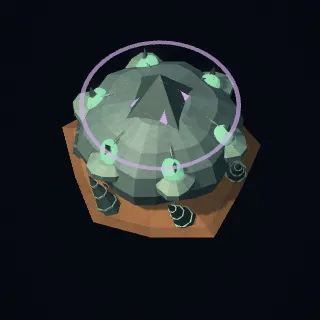
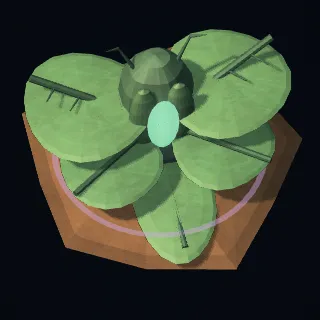
feat: distinguish Choir airbase and defense turret

diff --git a/src/renderer/models/faction-1-building-turret.ts b/src/renderer/models/faction-1-building-turret.ts
@@ -1,48 +1,66 @@
-/* Fraktion 1 / building / turret. Thorn spire: nested growth collars and four narrow thorn-support leaves. */
+/* Verdant Choir / Thorn spire — a rooted seed cannon with a long hollow thorn barrel. */
 'use strict';
 (() => {
-  function hull() {
-    const out: number[]=[], s=1.7, h=5.8, cone=geom.cylinder(7,0), collar=geom.cylinder(8), octa=geom.octa(),
-      dark=[.48,.58,.58], edge=[1.2,1.22,1.12];
-    const part=(mesh: number[],x: number,y: number,z: number,sx: number,sy: number,sz: number,tint: number[],ry=0,rx=0,rz=0)=>ModelMesh.bake(out,mesh,{x,y,z,sx,sy,sz,tint,ry,rx,rz});
-    const shell=(x: number,y: number,z: number,sx: number,sy: number,sz: number,tint: number[])=>ModelMesh.lobedShell(out,{x,y,z,sx,sy,sz,lobes:3,segments:12,rings:6,tint});
-    ModelMesh.lobedShell(out,{x:0,y:h*.44,z:0,sx:s*.8,sy:h*.57,sz:s*.78});
-    // Six old root positions and lean angles, now with growth rings baked once.
-    const root: number[]=[];
-    ModelMesh.bake(root,cone,{sx:.5,sy:2,sz:.5,tint:dark});
-    for(const y of [-.6,-.05,.45]) ModelMesh.bake(root,collar,{y,sx:(1-y)*.25+.035,sy:.075,sz:(1-y)*.25+.035,tint:edge});
-    for(let i=0;i<6;i++) {
-      const a=i*Math.PI/3;
-      ModelMesh.bake(out,root,{x:Math.sin(a)*s*.8,y:.7,z:Math.cos(a)*s*.8,ry:a,rx:.25,rz:.42});
-    }
-    // Six segmented meridian ribs sit just above the shell, like overlapping chitin seams.
-    for(let i=0;i<6;i++) for(let j=0;j<6;j++) {
-      const a=(i+.5)*Math.PI/3;
-      const point= (b: number) =>{const r=Math.sin(b)*(1-.055*Math.sin(b))+.04;
-        return [Math.cos(a)*s*.8*r,h*.44+Math.cos(b)*h*.57,Math.sin(a)*s*.78*r];};
-      const [x,y,z]=point(.62+j/6*1.82),[u,v,w]=point(.62+(j+1)/6*1.82),dx=u-x,dy=v-y,dz=w-z;
-      part(octa,(x+u)/2,(y+v)/2,(z+w)/2,.055,Math.hypot(dx,dy,dz)/2+.012,.055,edge,Math.atan2(dx,dz),Math.atan2(Math.hypot(dx,dz),dy));
-    }
-    for(let j=0;j<3;j++) part(collar,0,h-.35+j*.3,0,.62-j*.08,.14,.62-j*.08,edge);
-    for(let i=0;i<4;i++) {
-      const a=i*Math.PI/2;
-      part(octa,Math.sin(a)*.61,h*.73,Math.cos(a)*.61,.15,h*.25,.25,edge,a,.14);
+  const bark=[.48,.58,.52],leaf=[1.12,1.28,.78],edge=[1.3,1.18,.82],throat=[.34,.39,.34];
+  function rod(out: number[],a: number[],b: number[],radius: number,tint: number[],top=1) {
+    const d=b.map((v,i)=>v-a[i]),length=Math.hypot(...d);
+    ModelMesh.bake(out,geom.cylinder(10,top),{x:(a[0]+b[0])/2,y:(a[1]+b[1])/2,z:(a[2]+b[2])/2,
+      sx:radius,sy:length,sz:radius,rx:Math.acos(d[1]/length),ry:Math.atan2(d[0],d[2]),tint});
+  }
+  function shell(out: number[],x: number,y: number,z: number,sx: number,sy: number,sz: number,tint: number[],lobes=4) {
+    ModelMesh.lobedShell(out,{x,y,z,sx,sy,sz,lobes,segments:20,rings:8,depth:.04,tint});
+  }
+  // Thick, recessed muzzle along +Y; the complete emitter is rotated onto +Z when baked into the head.
+  function cup() {
+    const out: number[]=[],n=20,height=2.25,base=.29,rim=.5,
+      point=(r: number,y: number,i: number)=>[Math.cos(i*Math.PI*2/n)*r,y,Math.sin(i*Math.PI*2/n)*r],
+      quad=(a: number[],b: number[],c: number[],d: number[],t: number[])=>{geom.tri(out,a,b,c,t);geom.tri(out,a,c,d,t);};
+    for(let i=0;i<n;i++) {
+      const j=(i+1)%n,a=point(base,0,i),b=point(base,0,j),c=point(rim,height,j),d=point(rim,height,i),
+        e=point(rim*.68,height,i),f=point(rim*.68,height,j),g=point(base*.44,.34,j),h=point(base*.44,.34,i);
+      quad(a,d,c,b,edge);quad(d,e,f,c,[1.42,1.2,.78]);quad(e,h,g,f,throat);
+      geom.tri(out,[0,.34,0],g,h,throat);geom.tri(out,[0,0,0],a,b,bark);
     }
     return out;
   }
+  function hull() {
+    const out: number[]=[];
+    shell(out,0,.38,0,1.48,.46,1.48,bark,5);
+    for(let i=0;i<6;i++) {
+      const a=i*Math.PI/3;
+      rod(out,[Math.sin(a)*1.25,.28,Math.cos(a)*1.25],[Math.sin(a)*.38,1.42,Math.cos(a)*.38],.16,bark,.62);
+    }
+    rod(out,[0,.55,0],[0,2.72,0],.38,bark,.72);
+    shell(out,0,2.5,0,.78,.48,.78,leaf,4);
+    // Four upward leaves form an unmistakable gun cradle rather than a decorative spire.
+    for(const side of [-1,1]) {
+      rod(out,[side*.32,2.2,-.12],[side*.92,3.08,.18],.1,edge,.35);
+      rod(out,[side*.3,2.14,-.22],[side*1.02,2.72,-.72],.08,leaf,.25);
+    }
+    return out;
+  }
+  function weapon() {
+    const out: number[]=[];
+    shell(out,0,0,-.35,.83,.66,1.08,leaf,5);
+    ModelMesh.bake(out,cup(),{x:0,y:.05,z:.42,rx:Math.PI/2});
+    // Paired guard thorns visually point in the same firing direction as the open barrel.
+    for(const side of [-1,1]) {
+      rod(out,[side*.58,.05,-.08],[side*.76,.16,1.72],.105,edge,.12);
+      rod(out,[side*.55,.22,-.42],[side*.86,.42,-.9],.09,bark,.08);
+    }
+    return out;
+  }
+  function bud() {const out: number[]=[];shell(out,0,0,0,.22,.28,.22,[1,1,1],4);return out;}
   registerEntityModel({
-    id:'faction-1/building/turret', meshes:{faction1TurretHull:hull},
-    render({entity:e,time,part:p,ring,metal,dark,team,accent}) {
-      const s=e.size||3, h=5.8;
-      p('faction1TurretHull',0,0,0,s/1.7,1,s/1.7,metal);
-      p('octa',0,h*.77,0,s*.5,h*.65,s*.5,dark,.3);
-      for(let i=0;i<6;i++) {
-        const a=i*Math.PI/3;
-        p('sphere',Math.sin(a)*s*.8*.8,h*.63,Math.cos(a)*s*.8*.8,.45,.8,.45,team,a,0,.3,.28);
-      }
-      // Preserve the original phase, bob, colors and frequency; drawing consumes no RNG.
-      p('octa',0,h+Math.sin(time+e.id)*.14,0,s*.3,1.3,s*.3,accent,time*.22,0,0,.85);
-      p('cone',0,h+1.2,0,.4,2,.4,accent,0,0,0,.5);
+    id:'faction-1/building/turret',meshes:{faction1TurretHull:hull,faction1TurretWeapon:weapon,faction1TurretBud:bud},
+    render({entity:e,time,part:p,metal,dark,team,accent,baseRotation,surfaceColor}) {
+      const scale=(e.size||1.7)/1.7,aim=(e.rot??baseRotation)-baseRotation,
+        muzzle=(distance: number)=>[Math.sin(aim)*distance*scale,3.23,Math.cos(aim)*distance*scale];
+      p('faction1TurretHull',0,0,0,scale,1,scale,metal);
+      p('faction1TurretWeapon',0,3.18,0,scale,1,scale,dark,aim);
+      const bud=muzzle(2.57),rim=muzzle(2.74);
+      p('faction1TurretBud',bud[0],bud[1],bud[2],.78,.78,.78,surfaceColor(team),aim,0,0,.72+.08*Math.sin(time*2+e.id));
+      p('ring',rim[0],rim[1],rim[2],.34,.34,.34,accent,aim,Math.PI/2,0,.7);
     }
   });
 })();

diff --git a/src/renderer/models/faction-1-building-hangar.ts b/src/renderer/models/faction-1-building-hangar.ts
@@ -1,50 +1,52 @@
-/* Fraktion 1 / building / hangar. Chrysalis: a shallow six-petal flight collar under the existing effect ring. */
+/* Verdant Choir / Chrysalis — an opened moth cocoon whose four veined wings shelter a leaf launch tongue. */
 'use strict';
 (() => {
+  const leaf=[1.18,1.3,.82], vein=[.63,.76,.56], bark=[.43,.53,.47], cocoon=[.94,1.02,.74];
+  function rod(out: number[],a: number[],b: number[],radius: number,tint: number[],top=1) {
+    const d=b.map((v,i)=>v-a[i]),length=Math.hypot(...d);
+    ModelMesh.bake(out,geom.cylinder(8,top),{x:(a[0]+b[0])/2,y:(a[1]+b[1])/2,z:(a[2]+b[2])/2,
+      sx:radius,sy:length,sz:radius,rx:Math.acos(d[1]/length),ry:Math.atan2(d[0],d[2]),tint});
+  }
+  function shell(out: number[],x: number,y: number,z: number,sx: number,sy: number,sz: number,tint: number[],lobes=4) {
+    ModelMesh.lobedShell(out,{x,y,z,sx,sy,sz,lobes,segments:20,rings:8,depth:.045,tint});
+  }
   function hull() {
-    const out: number[]=[], s=3.8, h=3.8, cone=geom.cylinder(7,0), collar=geom.cylinder(8), octa=geom.octa(),
-      dark=[.48,.58,.58], edge=[1.2,1.22,1.12];
-    const part=(mesh: number[],x: number,y: number,z: number,sx: number,sy: number,sz: number,tint: number[],ry=0,rx=0,rz=0)=>ModelMesh.bake(out,mesh,{x,y,z,sx,sy,sz,tint,ry,rx,rz});
-    const shell=(x: number,y: number,z: number,sx: number,sy: number,sz: number,tint: number[])=>ModelMesh.lobedShell(out,{x,y,z,sx,sy,sz,lobes:3,segments:12,rings:6,tint});
-    ModelMesh.lobedShell(out,{x:0,y:h*.44,z:0,sx:s*.8,sy:h*.57,sz:s*.78});
-    // Six old root positions and lean angles, now with growth rings baked once.
-    const root: number[]=[];
-    ModelMesh.bake(root,cone,{sx:.5,sy:2,sz:.5,tint:dark});
-    for(const y of [-.6,-.05,.45]) ModelMesh.bake(root,collar,{y,sx:(1-y)*.25+.035,sy:.075,sz:(1-y)*.25+.035,tint:edge});
-    for(let i=0;i<6;i++) {
-      const a=i*Math.PI/3;
-      ModelMesh.bake(out,root,{x:Math.sin(a)*s*.8,y:.7,z:Math.cos(a)*s*.8,ry:a,rx:.25,rz:.42});
+    const out: number[]=[];
+    // A forward leaf reads as a runway while four lateral lobes form a moth rather than another root dome.
+    shell(out,0,.28,1.45,1.12,.16,2.25,leaf,3);
+    rod(out,[0,.31,-.42],[0,.36,3.25],.085,vein);
+    for(const side of [-1,1]) {
+      shell(out,side*1.88,2.18,-.55,1.72,.16,1.82,leaf,3);
+      shell(out,side*1.52,1.25,.76,1.38,.14,1.48,[1.05,1.2,.76],3);
+      rod(out,[side*.36,1.63,-.3],[side*3.28,3.06,-1.14],.105,vein);
+      rod(out,[side*.34,1.48,.02],[side*2.66,1.45,1.68],.085,vein);
+      rod(out,[side*.65,.46,-.52],[side*.46,3.34,-.58],.16,bark,.72);
+      rod(out,[side*.45,3.2,-.55],[side*.98,4.28,-.72],.075,vein,.35);
+      rod(out,[side*.98,4.28,-.72],[side*1.36,4.56,-.48],.045,vein,.25);
+      // Short vein branches make the broad panels read as wings at game zoom.
+      for(const t of [.32,.56,.78]) {
+        const x=side*(.36+(3.28-.36)*t),y=1.63+(3.06-1.63)*t,z=-.3+(-1.14+.3)*t;
+        rod(out,[x,y,z],[x+side*(.5-.18*t),y+.18,z+.58],.035,vein,.45);
+      }
     }
-    // Six segmented meridian ribs sit just above the shell, like overlapping chitin seams.
-    for(let i=0;i<6;i++) for(let j=0;j<6;j++) {
-      const a=(i+.5)*Math.PI/3;
-      const point= (b: number) =>{const r=Math.sin(b)*(1-.055*Math.sin(b))+.04;
-        return [Math.cos(a)*s*.8*r,h*.44+Math.cos(b)*h*.57,Math.sin(a)*s*.78*r];};
-      const [x,y,z]=point(.62+j/6*1.82),[u,v,w]=point(.62+(j+1)/6*1.82),dx=u-x,dy=v-y,dz=w-z;
-      part(octa,(x+u)/2,(y+v)/2,(z+w)/2,.055,Math.hypot(dx,dy,dz)/2+.012,.055,edge,Math.atan2(dx,dz),Math.atan2(Math.hypot(dx,dz),dy));
-    }
-    const leaf: number[]=[];
-    ModelMesh.lobedShell(leaf,{x:0,y:0,z:0,sx:s*.23,sy:h*.12,sz:s*.31,lobes:3,segments:12,rings:5,tint:edge});
-    for(let i=0;i<6;i++) {
-      const a=i*Math.PI/3;
-      ModelMesh.bake(out,leaf,{x:Math.sin(a)*s*.61,y:h*.55,z:Math.cos(a)*s*.61,ry:a});
-      part(octa,Math.sin(a)*s*.68,h*.76,Math.cos(a)*s*.68,.13,h*.16,.22,dark,a,.3);
-    }
+    shell(out,0,2.18,-.58,1.02,1.72,.88,cocoon,5);
+    // Split lips frame the luminous emergence seam at the front.
+    for(const side of [-1,1]) shell(out,side*.48,2.15,.17,.42,1.34,.25,[1.08,1.17,.79],3);
+    shell(out,0,.38,-.72,1.42,.34,1.2,bark,5);
+    return out;
+  }
+  function membrane() {
+    const out: number[]=[];
+    shell(out,0,2.16,.43,.42,1.03,.08,[1,1,1],4);
     return out;
   }
   registerEntityModel({
-    id:'faction-1/building/hangar', meshes:{faction1HangarHull:hull},
-    render({entity:e,time,part:p,ring,metal,dark,team,accent}) {
-      const s=e.size||3, h=3.8;
-      p('faction1HangarHull',0,0,0,s/3.8,1,s/3.8,metal);
-      p('octa',0,h*.77,0,s*.5,h*.65,s*.5,dark,.3);
-      for(let i=0;i<6;i++) {
-        const a=i*Math.PI/3;
-        p('sphere',Math.sin(a)*s*.8*.8,h*.63,Math.cos(a)*s*.8*.8,.45,.8,.45,team,a,0,.3,.28);
-      }
-      // Preserve the original phase, bob, colors and frequency; drawing consumes no RNG.
-      p('octa',0,h+Math.sin(time+e.id)*.14,0,s*.3,1.3,s*.3,accent,time*.22,0,0,.85);
-      ring(s*.8,h*.9,accent,.7);
+    id:'faction-1/building/hangar',meshes:{faction1HangarHull:hull,faction1HangarMembrane:membrane},
+    render({entity:e,time,part:p,ring,metal,team,accent,surfaceColor}) {
+      const scale=(e.size||3.8)/3.8;
+      p('faction1HangarHull',0,0,0,scale,1,scale,metal);
+      p('faction1HangarMembrane',0,0,0,scale,1,scale,surfaceColor(team),0,0,0,.72+.08*Math.sin(time*1.6+e.id));
+      ring((e.size||3.8)*.76,.43,accent,.48,0,time*.08,.65);
     }
   });
 })();

diff --git a/docs/rendering.md b/docs/rendering.md
@@ -18,7 +18,7 @@ Modellaufträge benennen Fraktion, Art/Typ, Silhouettenziel, Bounds, erlaubte An
 
 Welttransformation, Bauhöhe, Team-/Ghost-/Previewdarstellung sowie die Wahl des Standardfundaments und das Baugerüst bleiben im gemeinsamen Adapter. Gewöhnliche Choir-Gebäude erhalten dort einen flachen Erdhügel statt Platte und fester Leuchtumrandung. Ausnahme ist die Bloom queen: Ihre fünfblättrige Blüte gehört zum HQ-Modell; der Adapter zeichnet darunter kein zusätzliches Fundament. Auch Processional Gate, Tomb Forge, Votive Pillar, Sky Sepulcher und Silent Throne der Veiled Court besitzen eigene kantige Fundamente statt der gemeinsamen runden Platte samt Leuchtumrandung. Taktische Markierungen bleiben davon unabhängig. Das Modell zeichnet über den bereitgestellten Kontext, nicht über direkten Simulations-/Rendererzugriff. Bei Einheiten löst `surfaceColor` Sonderlackierungen zentral auf; bei Gebäuden hält `baseRotation` Fundamentausrichtung und unabhängigen Turmkopfwinkel auseinander.
 
-Die Choir-Einheiten unterscheiden biologische Aufgaben über Körperbau statt nur Skalierung: Sammelwerkzeuge, Dornenwaffe, Blütenkelch, Borkenpanzer und Sporenschale. Der Court verwendet offene Werkzeug-/Reliquiarformen, geteilte Gewänder und flache Schwebefahrzeuge. Mothwing besitzt vier geschlossene, geäderte Flügel mit spiegelgleicher Vorderkante und gegenläufigem Flügelschlag; Seraph bleibt ein starrer Sicheljäger. Fracht wird nur bei beladenen Workern gezeichnet. Laufphasen kommen aus `walk`, Flügel-/Pendelbewegungen aus der Simulationszeit; Schwebehöhe und Flugausfahrt bleiben beim gemeinsamen Adapter. Zusätzliche Rundung sitzt vor allem in großen organischen Körpern, nicht in jedem kleinen Knötchen. Kleine feste Farbflächen müssen ebenfalls über `surfaceColor` laufen, damit Ghosts und Tönungen keine ursprünglichen Farbflecken behalten.
+Die Choir-Einheiten unterscheiden biologische Aufgaben über Körperbau statt nur Skalierung: Sammelwerkzeuge, Dornenwaffe, Blütenkelch, Borkenpanzer und Sporenschale. Dasselbe gilt für Produktionsbauten: Chrysalis greift mit vier geäderten Blattschwingen und offenem Kokon die Mottenform auf, statt Root hollows Knollenkörper zu variieren; Thorn spire besitzt einen abgesetzten, vollständig zielgerichteten Samenkanonenkopf mit hohlem Lauf. Der Court verwendet offene Werkzeug-/Reliquiarformen, geteilte Gewänder und flache Schwebefahrzeuge. Mothwing besitzt vier geschlossene, geäderte Flügel mit spiegelgleicher Vorderkante und gegenläufigem Flügelschlag; Seraph bleibt ein starrer Sicheljäger. Fracht wird nur bei beladenen Workern gezeichnet. Laufphasen kommen aus `walk`, Flügel-/Pendelbewegungen aus der Simulationszeit; Schwebehöhe und Flugausfahrt bleiben beim gemeinsamen Adapter. Zusätzliche Rundung sitzt vor allem in großen organischen Körpern, nicht in jedem kleinen Knötchen. Kleine feste Farbflächen müssen ebenfalls über `surfaceColor` laufen, damit Ghosts und Tönungen keine ursprünglichen Farbflecken behalten.
 
 Modelltests und gemeinsame Helfer unter `tests/models/` bzw. `tests/helpers/` prüfen Geometrie, Varianten und Isolation. Beabsichtigte Verfeinerungen dürfen keine Kollisionsradien, Ausfahrten, Animationen oder unbeteiligten [Zeichenreferenzen](reference-tests.md) nebenbei ändern. Teilinstanzen sind nicht Draw Calls: eigene Meshchargen und zusätzliche Dreiecke getrennt bewerten, einschließlich Schattenwiederholung.
 

diff --git a/docs/issues/verdant-choir-modelle.md b/docs/issues/verdant-choir-modelle.md
@@ -10,10 +10,15 @@ Bloom nursery: niedriges asymmetrisches Brutbeet mit drei unterschiedlich große
 
 Living canopy: gestuftes Wabennest mit dicken, leicht unregelmäßigen Zellwänden, tiefen offenen Kammern und einzelnen lebenden Verschlussmembranen. Eine Blatthülle verbindet das Nest mit dem Boden; kein Turmkern oder schwebender Kristall. Versorgungskapazität und Kollisionsradius bleiben unverändert.
 
+Chrysalis: breite Motten-Silhouette statt der Root-hollow-Knolle. Vier geäderte Blattschwingen überspannen einen aufgebrochenen Kokon; ein langes Blatt dient als Startzunge. Flügel und Kokon bleiben statisch, nur die vordere Membran pulsiert schwach. Die Form zitiert Mothwing, ohne ein vergrößertes Einheitenmodell zu sein.
+
+Thorn spire: niedriger Wurzelsockel und klar abgesetzte Samenkanone statt hoher Zierspitze. Der vollständige Kopf aus Samenkapsel, Schutzdornen und langem hohlem Lauf folgt der bereits vorhandenen Zielausrichtung; die zurückgesetzte Mündung und ihr Leuchtsignal bleiben dabei verbunden. Reichweite, Schusslogik und Kollisionsradius ändern sich nicht.
+
 Standardfundamente und die HQ-Blüte folgen dem [Modell-/Fundamentvertrag](../rendering.md#einzeln-wartbare-modelle).
 
 ## Offen
 
 - Menschliche Sichtung der überarbeiteten Bloom queen (Hummelproportionen, fünfblättrige Blüte, Atmen und Fühlerbewegung). Nahaufnahme und normaler Spielzoom wurden zur Modellkorrektur betrachtet; das ersetzt nicht die Abnahme durch den Nutzer. Technischer `file://`-Check deckt Uploads, WebGL-Fehler sowie Team-/Bau-/Vorschauvarianten in allen Qualitätsstufen ab, nicht Echtgeräteperformance.
 - Weitere Sichtung von Bloom nursery, Living Canopy und den Standard-Erdhügeln bei normalem Spielzoom, auf den verschiedenen Karten und während des Baus.
+- Menschliche Abnahme der neuen Chrysalis-Mottenform und der gerichteten Thorn-spire-Kanone in Übersicht, normalem Spielzoom und Bauphase; technische Rendererprüfung ersetzt das nicht.
 - Weitere Choir-Gebäude einzeln nach Nutzerpriorität mit eigenem Silhouettenziel angehen, statt erneut dieselbe Grundform zu variieren.
